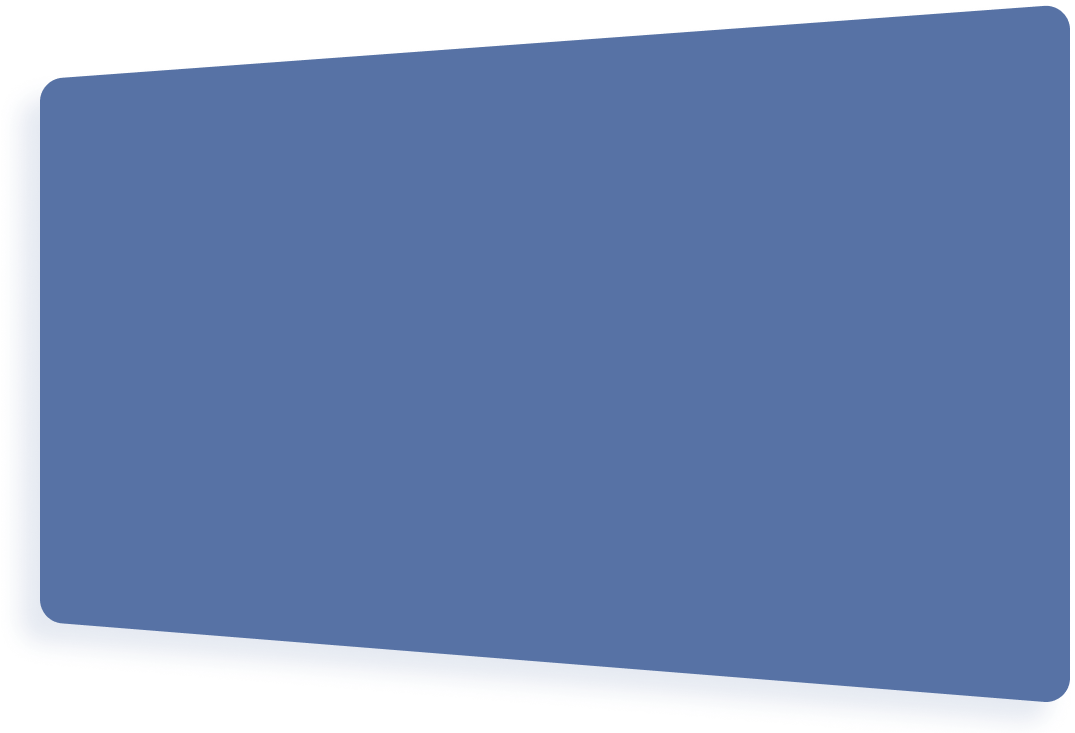
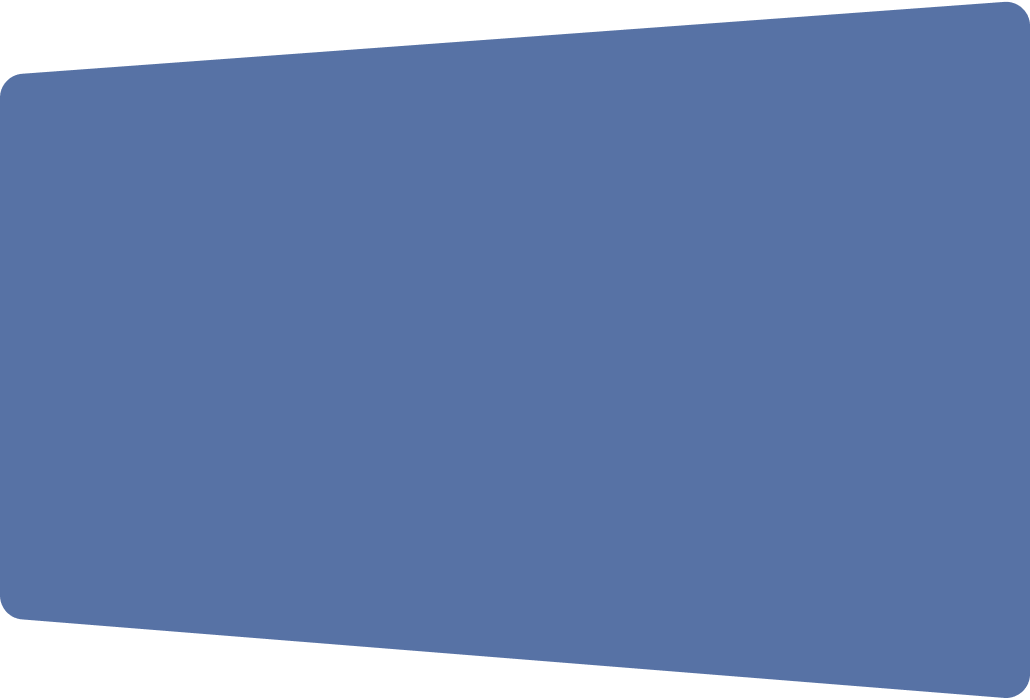
Alterações de sombra

Changed region(s): [[0.0, 0.0, 1.0, 1.0], [0.466, 0.03, 0.7456, 0.06], [0.1864, 0.06, 0.466, 0.09]]

diff --git a/index.html b/index.html
@@ -515,14 +515,14 @@
     <h1
       class="font-bold text-transparent text-5xl text-left bg-clip-text bg-gradient-to-l from-[#AB1D84] from-30% to-[#09F4F9] to-90% leading-tight">
       Vamos tomar um café?</h1>
-    <div class="bg-[url('./img/contate_nos/fundo-form.png')] bg-no-repeat bg-right-top pt-24 pb-16 pr-28">
+    <div class="bg-[url('./img/contate_nos/fundo-form.png')] bg-no-repeat bg-right-top pt-24 pb-16 pr-28 img-big-right-shadown">
       <div class="grid grid-cols-2 gap-4">
         <div class="grid grid-cols-2 gap-4">
-          <div class="col-span-2 grid grid-cols-2 gap-4 items-end">
+          <div class="col-span-2 grid grid-cols-2 gap-4 items-end img-left-shadown">
             <img src="./img/contate_nos/08-img.png">
             <img src="./img/contate_nos/09-img.png">
           </div>
-          <img src="./img/contate_nos/10-img.png">
+          <img src="./img/contate_nos/10-img.png" class="img-left-shadown">
           <div
             class="bg-[url('./img/contate_nos/11-img.png')] bg-no-repeat bg-contain flex items-center h-[192px] px-3 img-left-shadown">
             <p class="text-white text-2xl text-center">Estamos aguardando seu<b>contato</b>
